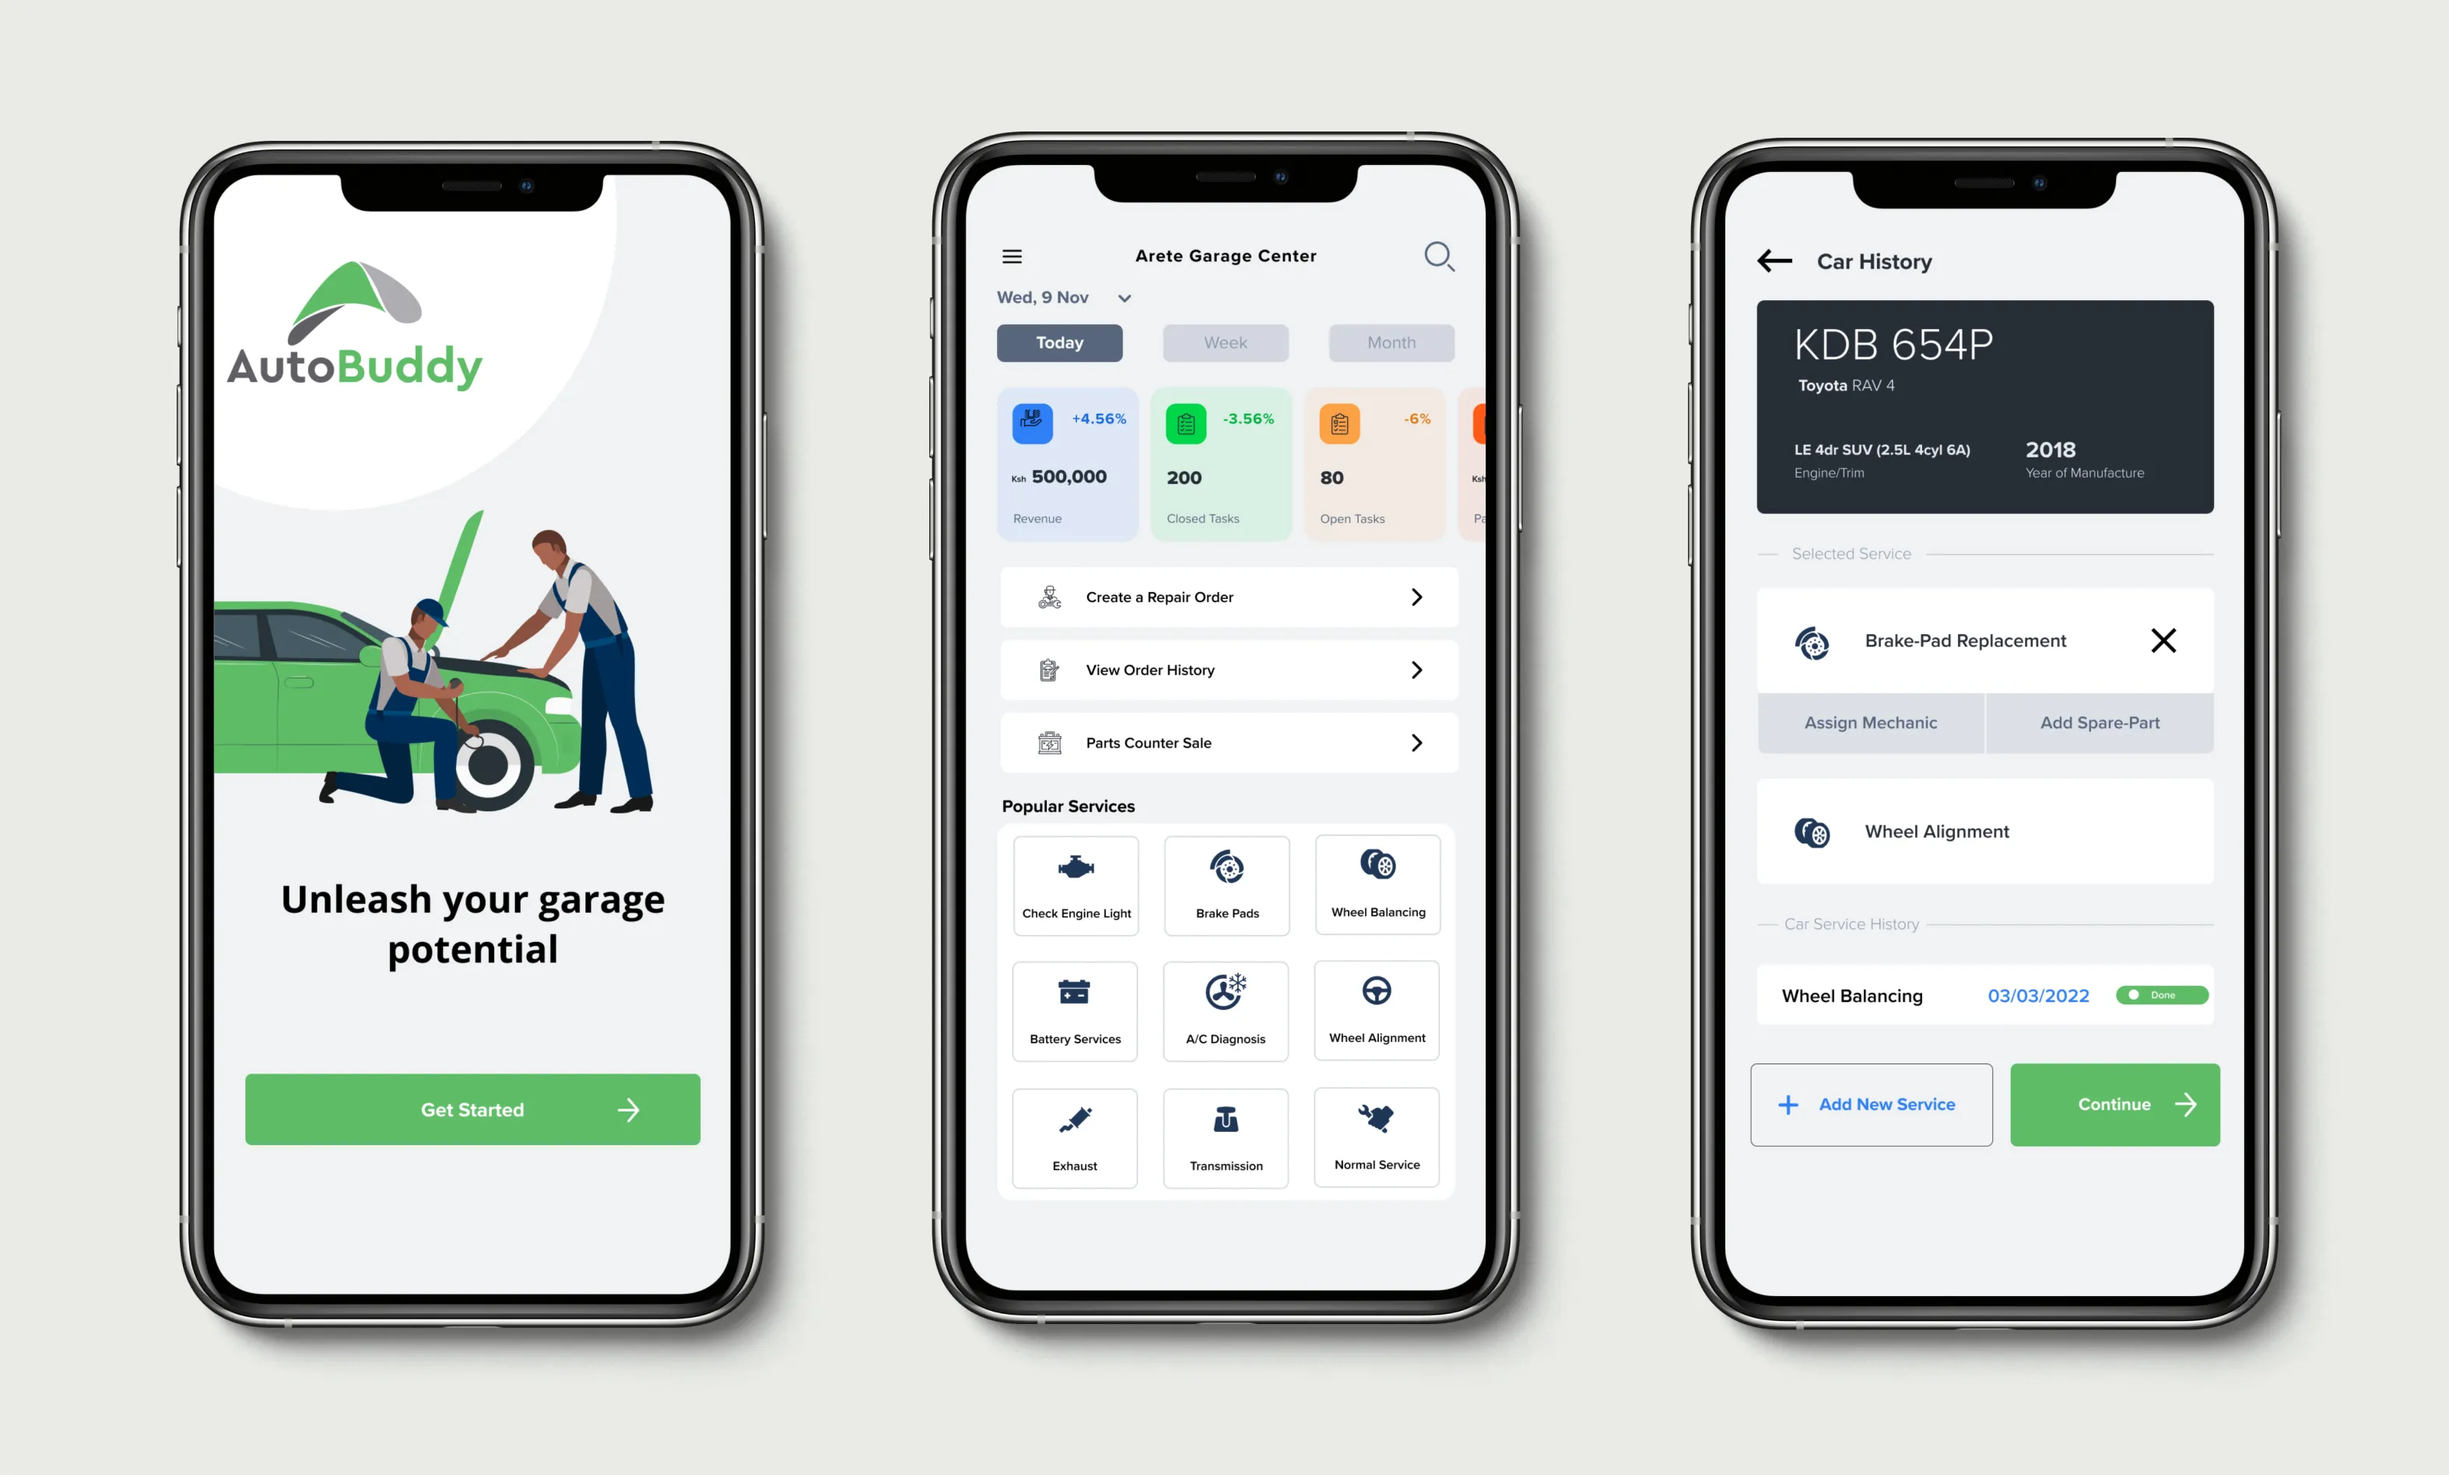
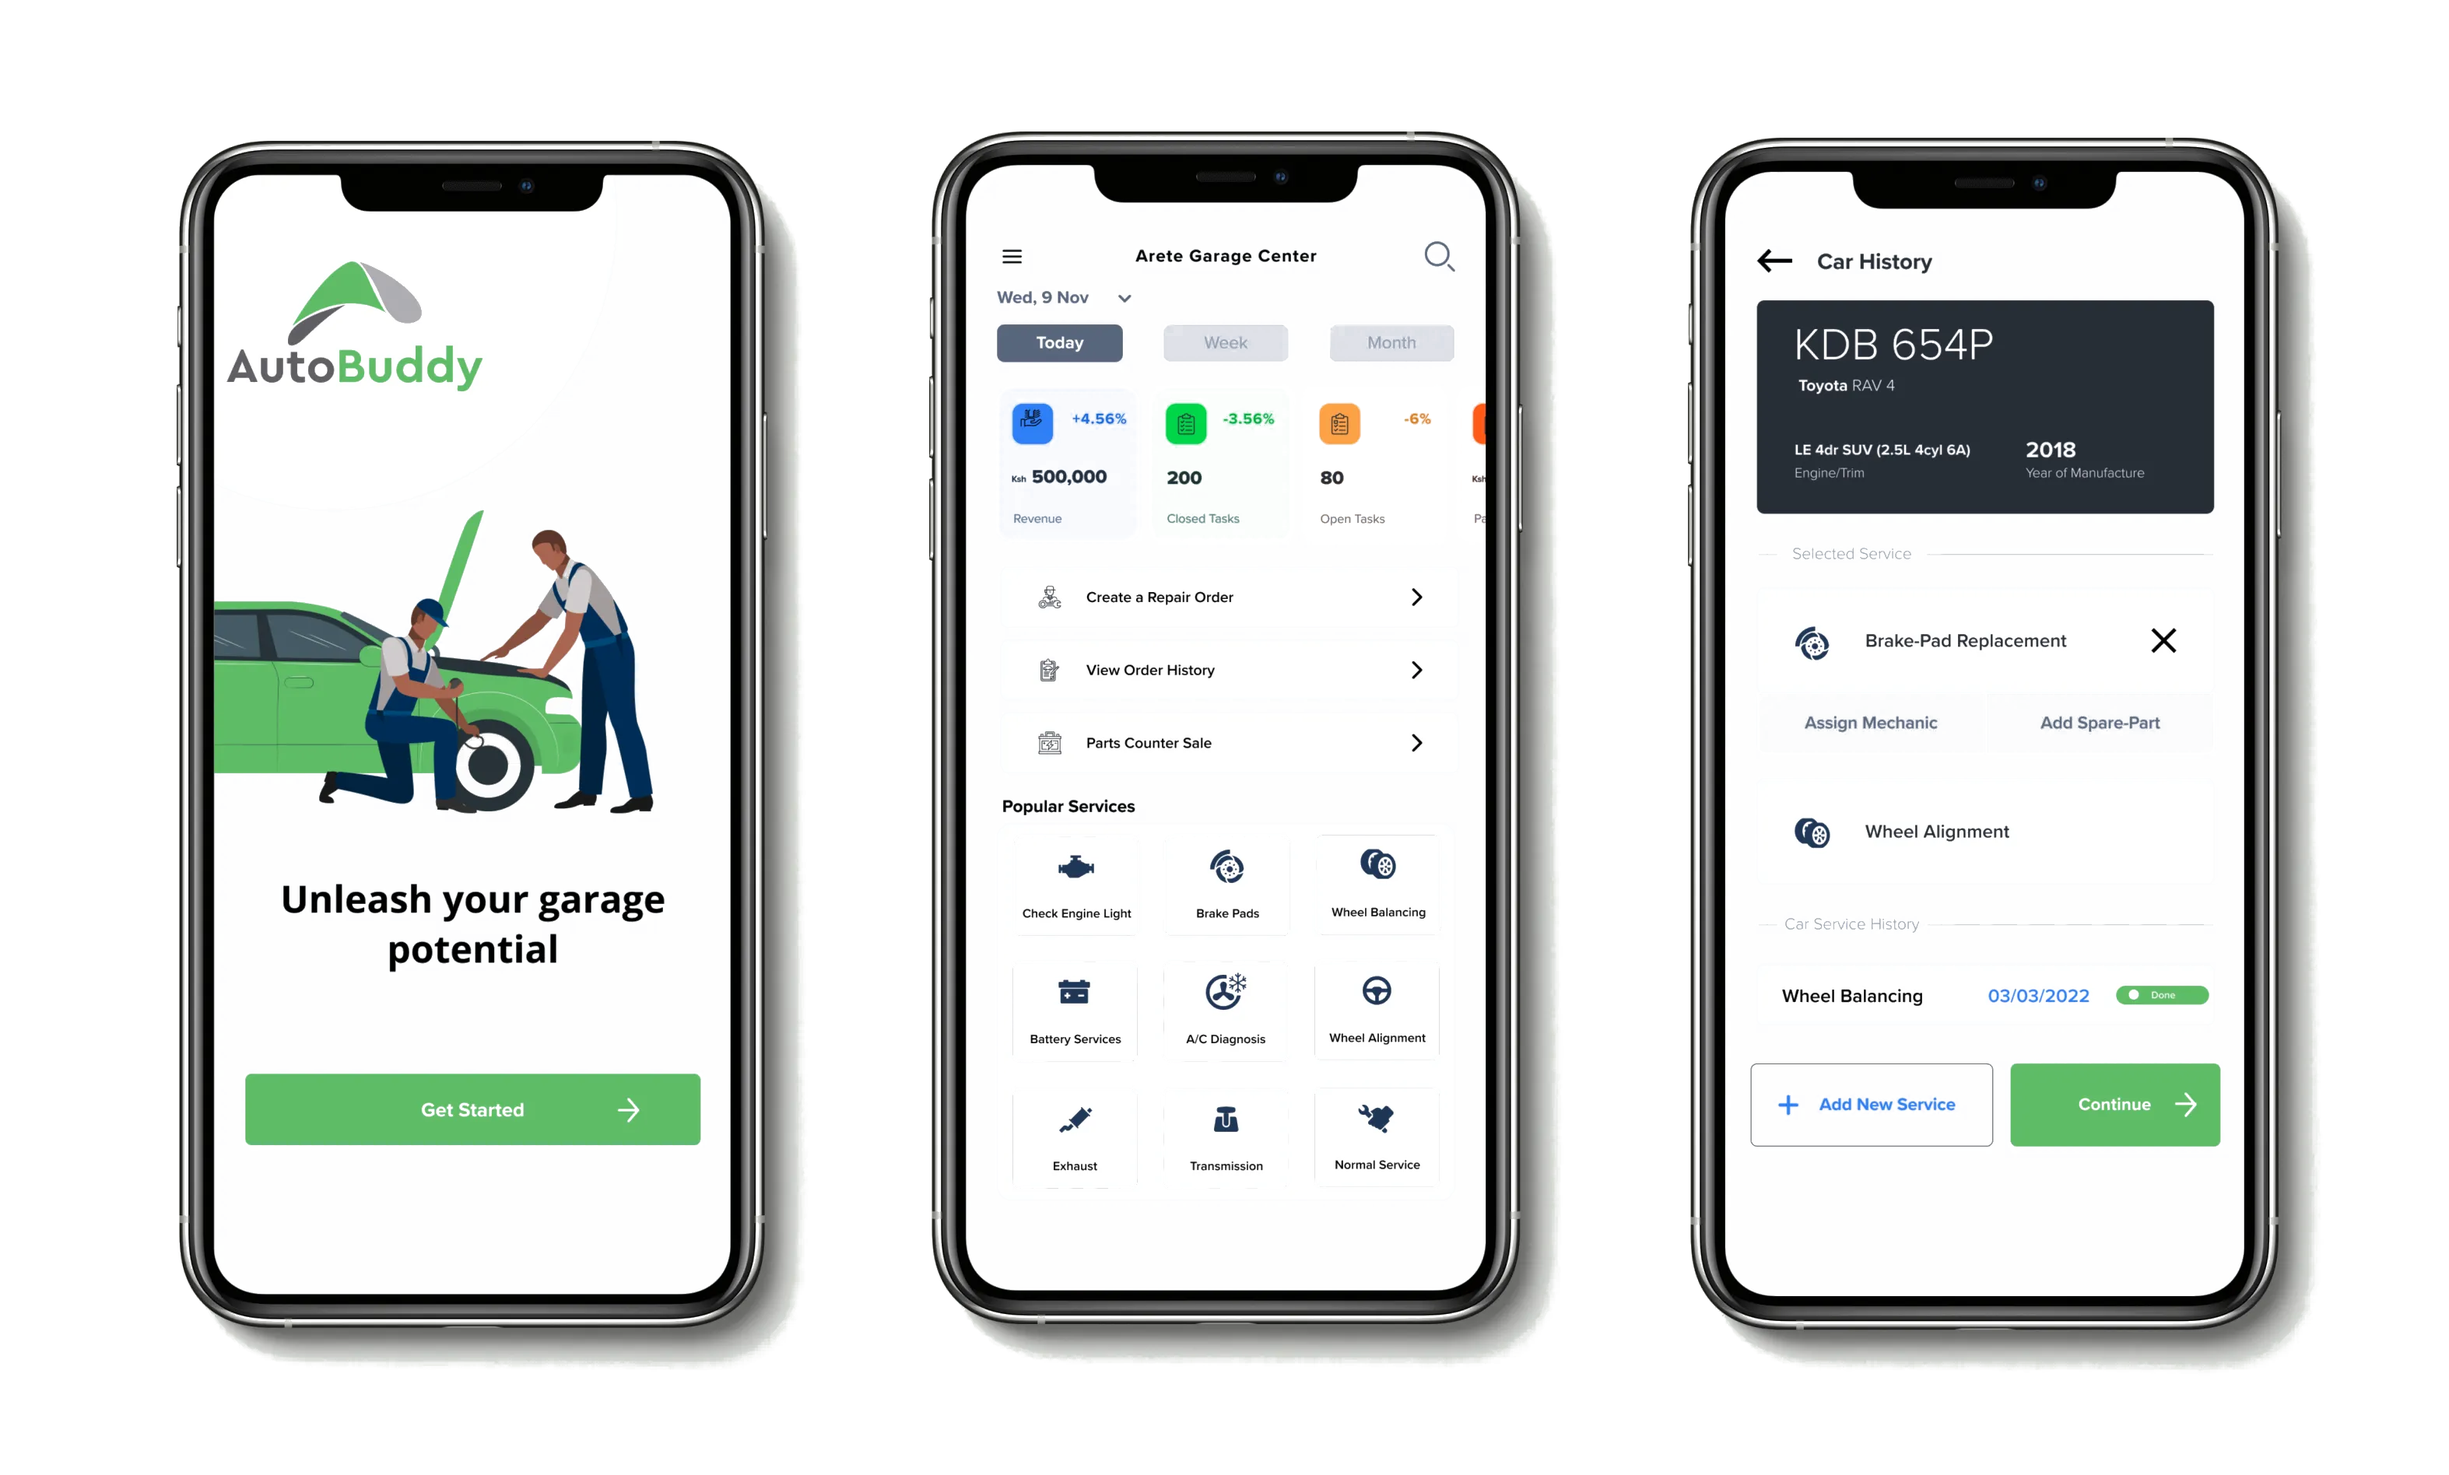
Unify AutoBuddy hero presentation

diff --git a/src/app/work/autobuddy/page.module.css b/src/app/work/autobuddy/page.module.css
@@ -33,11 +33,9 @@
 }
 
 .heroCopy {
-  max-width: 38rem;
-  justify-self: end;
-  align-self: end;
-  padding-left: 1.5rem;
-  border-left: 2px solid var(--accent);
+  max-width: 52rem;
+  justify-self: center;
+  text-align: center;
   font-size: clamp(1rem, 1.5vw, 1.15rem);
   line-height: 1.75;
 }
@@ -60,8 +58,6 @@
   display: block;
   width: 100%;
   height: auto;
-  filter: saturate(0.96) contrast(0.98);
-  mix-blend-mode: multiply;
 }
 
 .metadataStrip {
@@ -639,10 +635,6 @@
 }
 
 @media (max-width: 679px) {
-  .heroCopy {
-    padding-left: 1rem;
-  }
-
   .systemStrip li:nth-child(even) {
     border-right: 0;
   }
